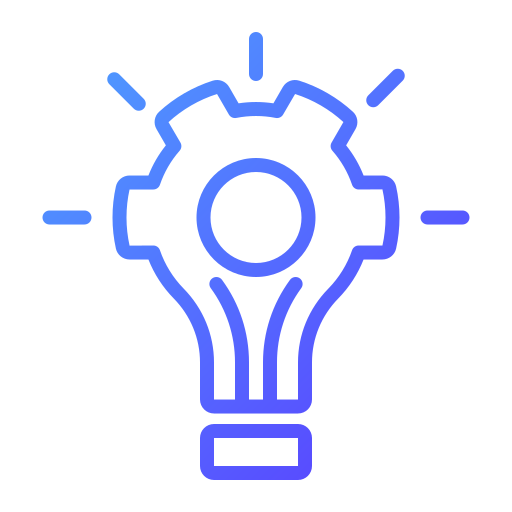
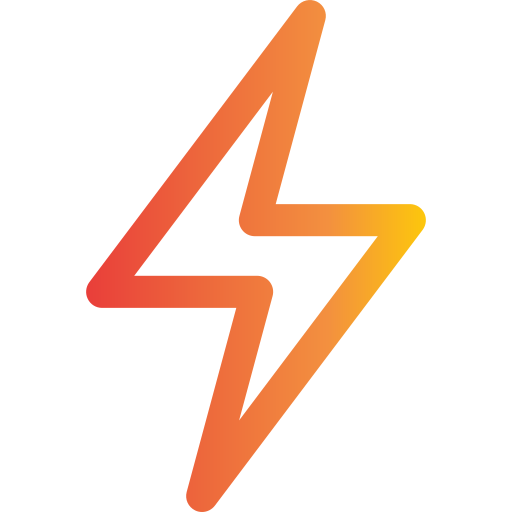
feat: implement energy breakdown and pie chart visualization in energy card

diff --git a/src/app/bridge/bridge.scss b/src/app/bridge/bridge.scss
@@ -279,7 +279,7 @@
   text-align: right;
 }
 
-/* ═══ Energy Card (Battery) ═══ */
+/* ═══ Energy Card (Pie Chart) ═══ */
 
 .energy-card {
   grid-column: span 1;
@@ -287,74 +287,117 @@
 
 .energy-body {
   gap: var(--space-xl);
-}
-
-.battery-container {
-  display: flex;
-  align-items: center;
-  justify-content: center;
-  gap: 4px;
-  padding: var(--space-md) 0;
-}
-
-.battery-body {
-  flex: 1;
-  height: 40px;
-  border: 2px solid var(--text-secondary);
-  border-radius: 6px;
-  padding: 3px;
-  background: rgba(0, 0, 0, 0.4);
-  position: relative;
-  overflow: hidden;
-  box-shadow: inset 0 0 10px rgba(0, 0, 0, 0.8);
-  transition: border-color var(--transition-normal);
-
-  &.energy-good { border-color: var(--color-success); }
-  &.energy-warn { border-color: var(--color-energie); }
-  &.energy-critical { border-color: var(--color-danger); }
-}
-
-.battery-fill {
-  height: 100%;
-  border-radius: 2px;
-  transition: width 0.5s ease-out, background-color 0.5s ease;
-}
-
-.battery-body.energy-good .battery-fill { background: var(--color-success); }
-.battery-body.energy-warn .battery-fill { background: var(--color-energie); }
-.battery-body.energy-critical .battery-fill { background: var(--color-danger); animation: pulseCritical 1s infinite; }
-
-.battery-cap {
-  width: 8px;
-  height: 20px;
-  background: var(--glass-border);
-  border-radius: 0 4px 4px 0;
-  box-shadow: inset 2px 0 5px rgba(0,0,0,0.3);
-}
-
-@keyframes pulseCritical {
-  0% { opacity: 1; }
-  50% { opacity: 0.5; }
-  100% { opacity: 1; }
-}
-
-.energy-details {
   display: flex;
   flex-direction: column;
-  gap: var(--space-sm);
+}
+
+.pie-chart-container {
+  display: flex;
+  align-items: flex-end;
+  justify-content: center;
+  padding: var(--space-md) 0 0 0;
+  position: relative;
+  width: 300px;
+  height: 150px;
+  min-height: 150px;
+  flex-shrink: 0;
+  margin: 0 auto;
+}
+
+.pie-chart {
+  box-sizing: border-box;
+  width: 100%;
+  height: 100%;
+  border-radius: 50% 50% 0 0 / 100% 100% 0 0;
+  box-shadow: 0 -5px 15px rgba(0, 0, 0, 0.5), inset 0 5px 20px rgba(0,0,0,0.5);
+  border: 2px solid #48e5e5;
+  border-bottom: none;
+  transition: background 0.5s ease;
+}
+
+.pie-chart-overlay {
+  box-sizing: border-box;
+  position: absolute;
+  bottom: 0;
+  left: 50%;
+  transform: translateX(-50%);
+  width: 180px;
+  height: 90px;
+  background: var(--bg-dark);
+  border-radius: 50% 50% 0 0 / 100% 100% 0 0;
+  display: flex;
+  flex-direction: column;
+  align-items: center;
+  justify-content: flex-end;
+  padding-bottom: 8px;
+  box-shadow: inset 0 5px 15px rgba(0,0,0,0.8), 0 -5px 10px rgba(0,0,0,0.5);
+  border: 2px solid #48e5e5;
+  border-bottom: none;
+
+  .overlay-value {
+    font-family: var(--font-display);
+    font-size: 1.6rem;
+    font-weight: 700;
+    line-height: 1;
+  }
+  
+  .overlay-label {
+    font-size: 0.8rem;
+    color: var(--text-muted);
+    text-transform: uppercase;
+    letter-spacing: 1px;
+    margin-top: 4px;
+  }
+}
+
+.energy-legend {
+  display: flex;
+  flex-direction: column;
+  gap: var(--space-md);
   background: rgba(0, 0, 0, 0.2);
   padding: var(--space-md);
   border-radius: var(--radius-sm);
   border: 1px solid rgba(255, 255, 255, 0.05);
 }
 
+.legend-list {
+  display: flex;
+  flex-direction: column;
+  gap: var(--space-xs);
+}
+
 .energy-stat {
   display: flex;
   justify-content: space-between;
+  align-items: center;
   font-size: 0.9rem;
+
+  &.highlight-top {
+    margin-bottom: var(--space-xs);
+    padding-bottom: var(--space-xs);
+    border-bottom: 1px dashed rgba(255, 255, 255, 0.1);
+
+    .stat-label { color: var(--text-secondary); font-weight: 500; }
+    .stat-value { font-size: 1.1rem; }
+  }
+
+  &.legend-item {
+    font-size: 0.85rem;
+  }
 
   .stat-label {
     color: var(--text-muted);
+    display: flex;
+    align-items: center;
+    gap: var(--space-sm);
+  }
+
+  .legend-color-dot {
+    width: 10px;
+    height: 10px;
+    border-radius: 50%;
+    display: inline-block;
+    box-shadow: 0 0 4px rgba(0,0,0,0.5);
   }
 
   .stat-value {
@@ -363,15 +406,6 @@
 
     &.text-success { color: var(--color-success); }
     &.text-danger { color: var(--color-danger); }
-  }
-
-  &.highlight {
-    margin-top: var(--space-xs);
-    padding-top: var(--space-xs);
-    border-top: 1px dashed rgba(255, 255, 255, 0.1);
-
-    .stat-label { color: var(--text-secondary); font-weight: 500; }
-    .stat-value { color: var(--primary); font-size: 1.1rem; }
   }
 }
 

diff --git a/src/app/bridge/bridge.ts b/src/app/bridge/bridge.ts
@@ -3,6 +3,8 @@ import { DecimalPipe, NgClass } from '@angular/common';
 import { AnimatedNumberComponent } from '../components/animated-number/animated-number.component';
 import { Auth } from '@angular/fire/auth';
 import { GameStateService } from '../services/game-state.service';
+import { ENERGY_UPKEEP, SHIP_IDS } from '../services/game-state.types';
+import * as MathUtils from '../services/game-math.utils';
 
 /**
  * Represents a display-ready resource with current values, max capacity, and production rate.
@@ -106,6 +108,66 @@ export class Bridge {
     const max = this.energyProduced();
     if (max <= 0) return 0;
     return Math.max(0, Math.min(100, (this.availableEnergy() / max) * 100));
+  });
+
+  /**
+   * Computes the energy breakdown by category for the pie chart.
+   */
+  energyBreakdown = computed<{ label: string, value: number, color: string }[]>(() => {
+    const s = this.gameState.skills();
+    const groups = [
+      { label: 'Minen & Anlagen', ids: ['eisenmine', 'silbermine', 'goldmine', 'lager', 'refinery'], color: '#a8b2c1' },
+      { label: 'Forschung & Tech', ids: ['biolabor', 'ki_automatisierung', 'antriebstechnik'], color: '#9b59b6' },
+      { label: 'Wirtschaft', ids: ['trading_post', 'interstellar_market', 'galactic_exchange'], color: '#f1c40f' },
+      { label: 'Schiffswerften', ids: ['orbital_shipyard', 'large_station'], color: '#e67e22' },
+      { label: 'Flotte', ids: ['kolonisierungsschiffe', 'logistikschiff', 'transportschiffe', 'mining_ship'], color: '#3498db' }
+    ];
+
+    const breakdown = groups.map(g => {
+      const val = g.ids.reduce((sum, id) => {
+        const level = s[id] || 0;
+        if (!level || !ENERGY_UPKEEP[id]) return sum;
+        return sum + (SHIP_IDS.includes(id) ? ENERGY_UPKEEP[id] * level : MathUtils.calcCumulativeUpkeep(ENERGY_UPKEEP[id], level));
+      }, 0);
+      return { label: g.label, value: val, color: g.color };
+    }).filter(g => g.value > 0);
+
+    const available = this.availableEnergy();
+    if (available > 0) {
+      breakdown.push({ label: 'Freie Energie', value: available, color: 'var(--color-success)' });
+    }
+
+    return breakdown;
+  });
+
+  /**
+   * Generates a conic-gradient string for the gauge (half pie chart) based on the energy breakdown.
+   */
+  pieChartGradient = computed<string>(() => {
+    const breakdown = this.energyBreakdown();
+    const total = breakdown.reduce((sum, item) => sum + item.value, 0);
+    if (total === 0) return 'conic-gradient(from 270deg at 50% 100%, rgba(255, 255, 255, 0.05) 0deg 180deg)';
+
+    let currentAngle = 0;
+    const gradientStops: string[] = [];
+    
+    breakdown.forEach((item, index) => {
+      const degrees = (item.value / total) * 180;
+      const endAngle = currentAngle + degrees;
+      
+      // Use ~0.57 degrees for a 1.5px gap (at 150px radius: (1.5 / (150*2*PI)) * 360 = 0.573)
+      const gap = (index < breakdown.length - 1) ? 0.57 : 0;
+      
+      gradientStops.push(`${item.color} ${currentAngle}deg ${endAngle - gap}deg`);
+      
+      if (gap > 0) {
+        gradientStops.push(`#48e5e5 ${endAngle - gap}deg ${endAngle}deg`);
+      }
+      
+      currentAngle += degrees;
+    });
+
+    return `conic-gradient(from 270deg at 50% 100%, ${gradientStops.join(', ')})`;
   });
 
   /**

diff --git a/src/app/bridge/bridge.html b/src/app/bridge/bridge.html
@@ -101,30 +101,39 @@
     <!-- ═══ Energy Card (Battery) ═══ -->
     <article class="dash-card energy-card" id="card-energy" aria-label="Energy grid status">
       <header class="card-header">
-        <h2 class="card-title"><span aria-hidden="true">⚡</span> Energie-Netz</h2>
+        <h2 class="card-title">
+          <img src="assets/side-menu-icons/energy.png" alt="" aria-hidden="true" style="height: 1.2em; width: auto; vertical-align: text-bottom; margin-right: 4px;">
+          Energie-Netz
+        </h2>
         <span class="card-badge" [ngClass]="energyColorClass">{{ energyPercentage() | number:'1.0-0' }}% Frei</span>
       </header>
       <div class="card-body energy-body">
 
-        <figure class="battery-container" role="progressbar" [attr.aria-valuenow]="energyPercentage()" aria-valuemin="0" aria-valuemax="100" aria-label="Energy capacity level">
-          <div class="battery-body" [ngClass]="energyColorClass">
-            <div class="battery-fill" [style.width.%]="energyPercentage()"></div>
+        <figure class="pie-chart-container" role="img" aria-label="Energy consumption pie chart">
+          <div class="pie-chart" [style.background]="pieChartGradient()"></div>
+          
+          <div class="pie-chart-overlay">
+            <span class="overlay-value text-success">{{ energyPercentage() | number:'1.0-0' }}%</span>
+            <span class="overlay-label">Frei</span>
           </div>
-          <div class="battery-cap" aria-hidden="true"></div>
         </figure>
 
-        <dl class="energy-details" aria-label="Energy statistics">
-          <div class="energy-stat">
+        <dl class="energy-legend" aria-label="Energy breakdown">
+          <div class="energy-stat highlight-top">
             <dt class="stat-label">Produziert (Kapazität)</dt>
             <dd class="stat-value text-success">{{ energyProduced() | number }}</dd>
           </div>
-          <div class="energy-stat">
-            <dt class="stat-label">Verbraucht (Unterhalt)</dt>
-            <dd class="stat-value text-danger">{{ (energyProduced() - availableEnergy()) | number }}</dd>
-          </div>
-          <div class="energy-stat highlight">
-            <dt class="stat-label">Freie Energie</dt>
-            <dd class="stat-value">{{ availableEnergy() | number }}</dd>
+          
+          <div class="legend-list">
+            @for (item of energyBreakdown(); track item.label) {
+              <div class="energy-stat legend-item">
+                <dt class="stat-label with-color">
+                  <span class="legend-color-dot" [style.background-color]="item.color" aria-hidden="true"></span>
+                  {{ item.label }}
+                </dt>
+                <dd class="stat-value" [class.text-success]="item.label === 'Freie Energie'">{{ item.value | number }}</dd>
+              </div>
+            }
           </div>
         </dl>
 
